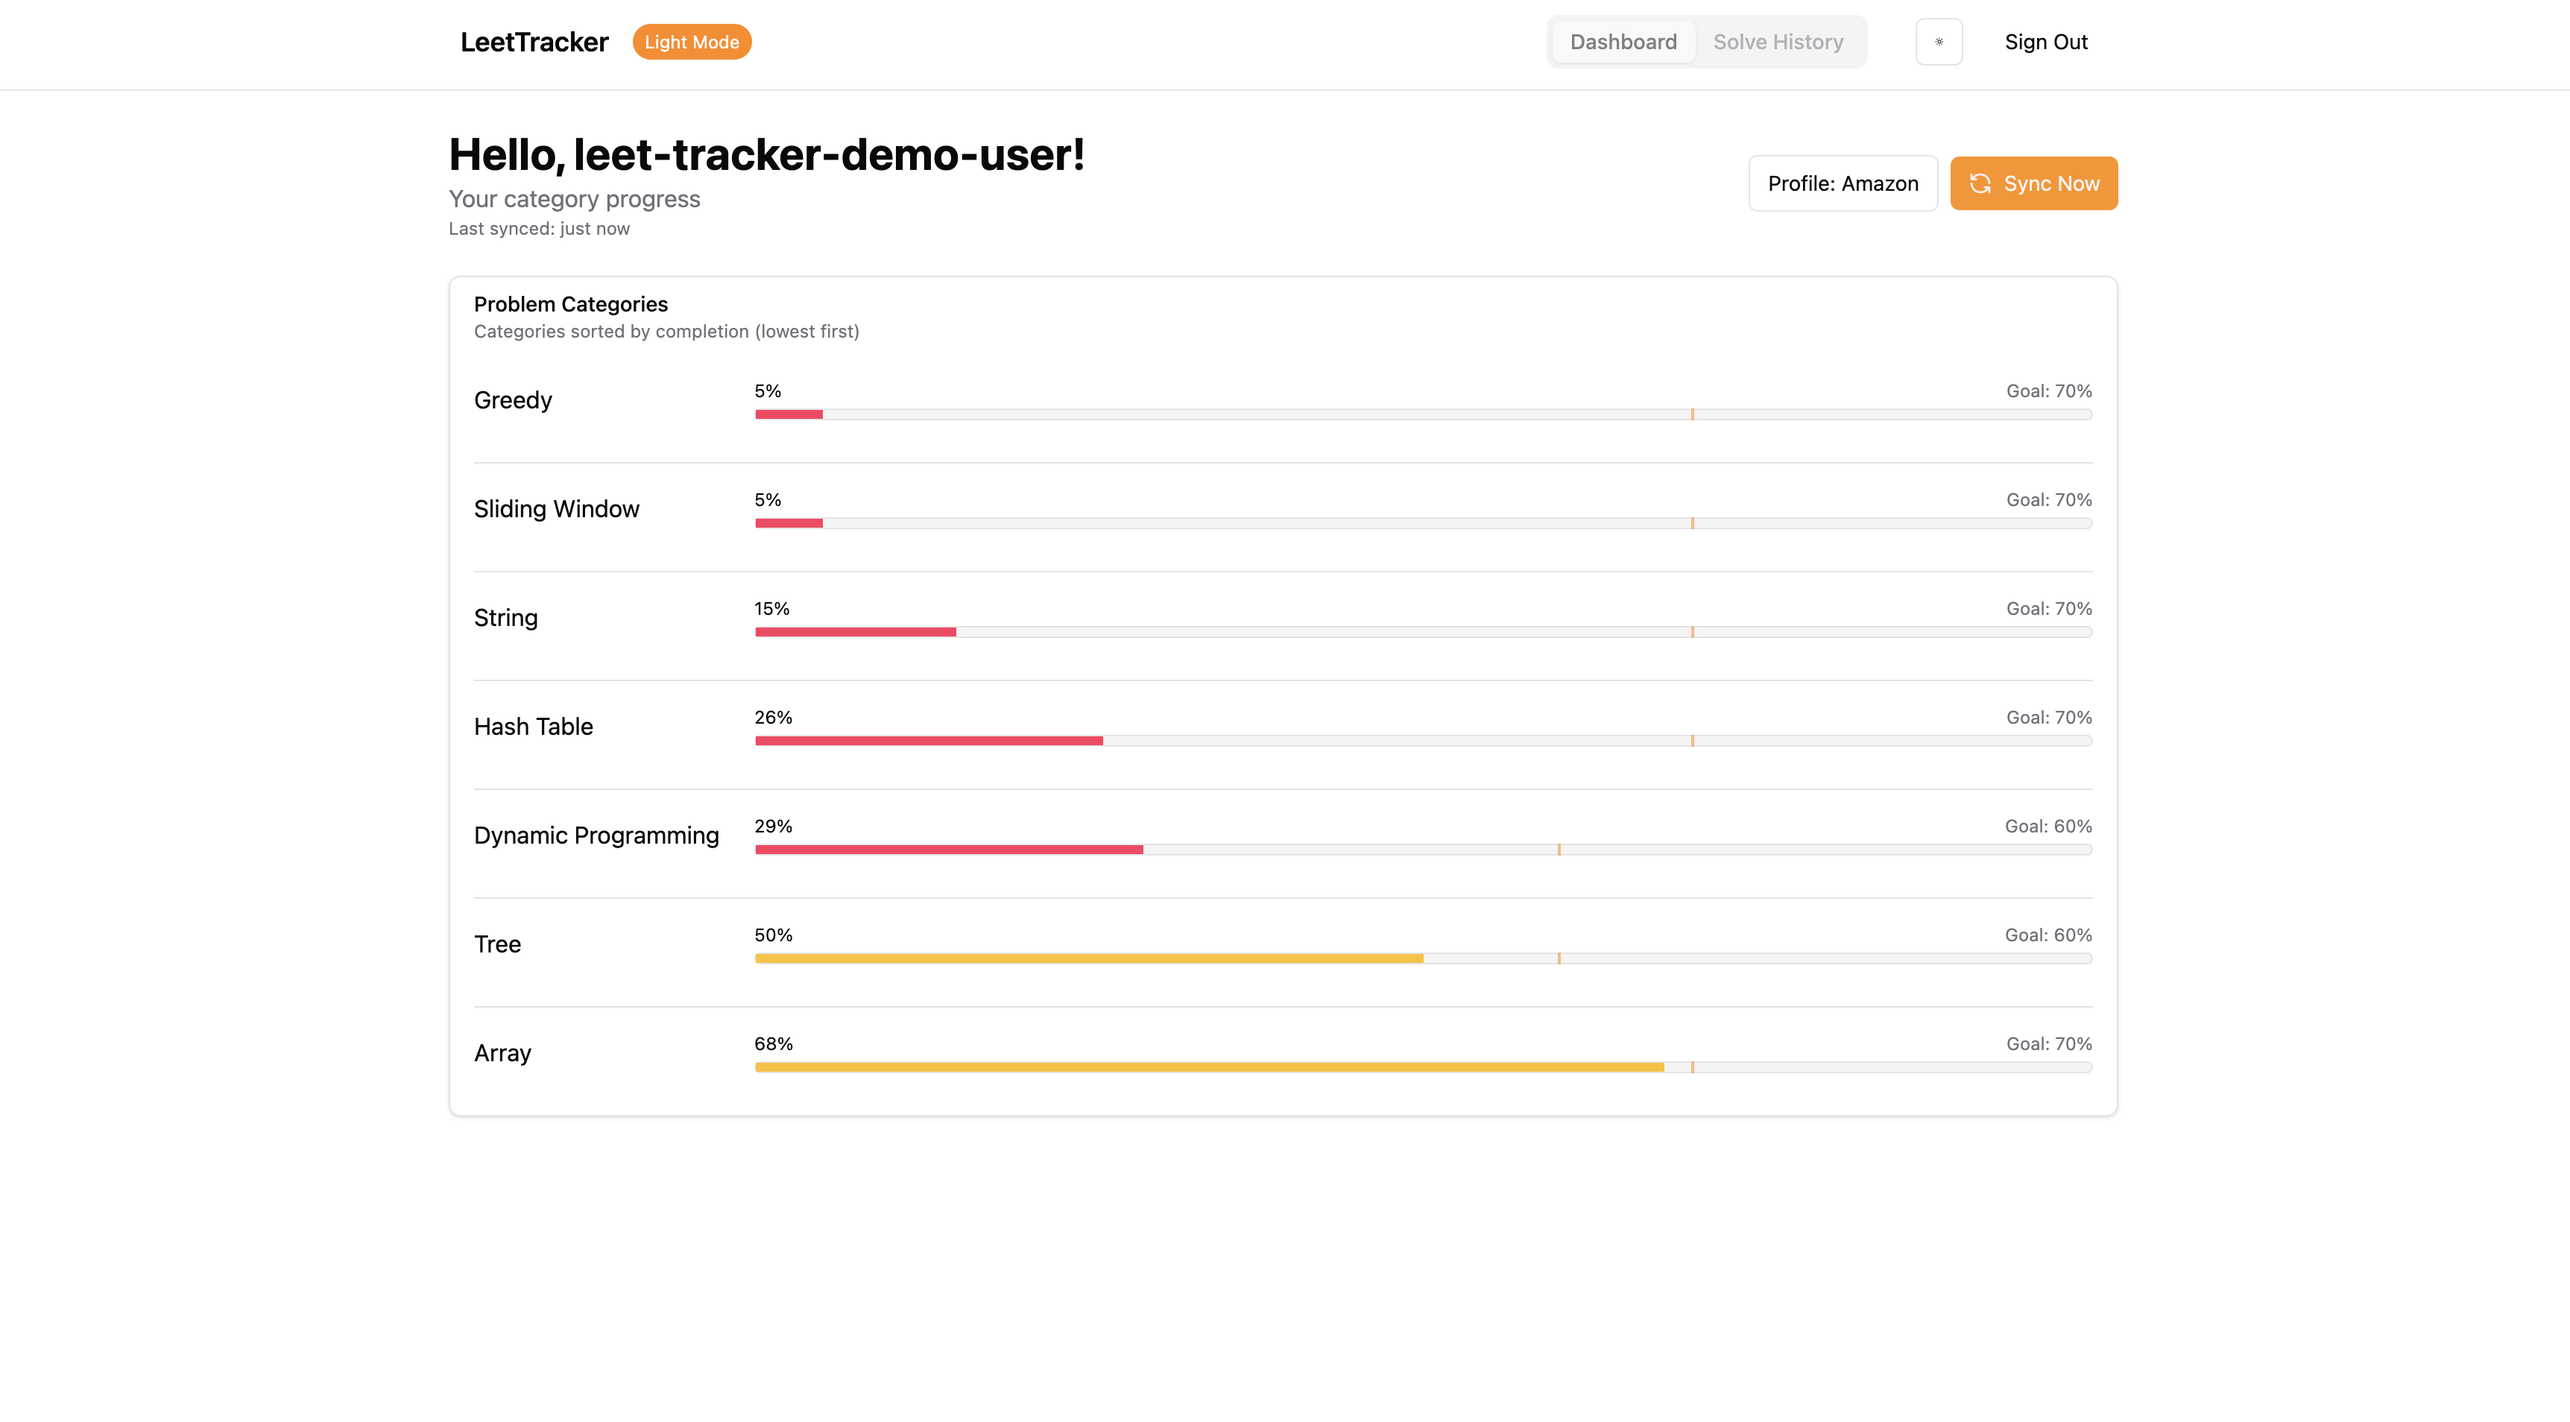
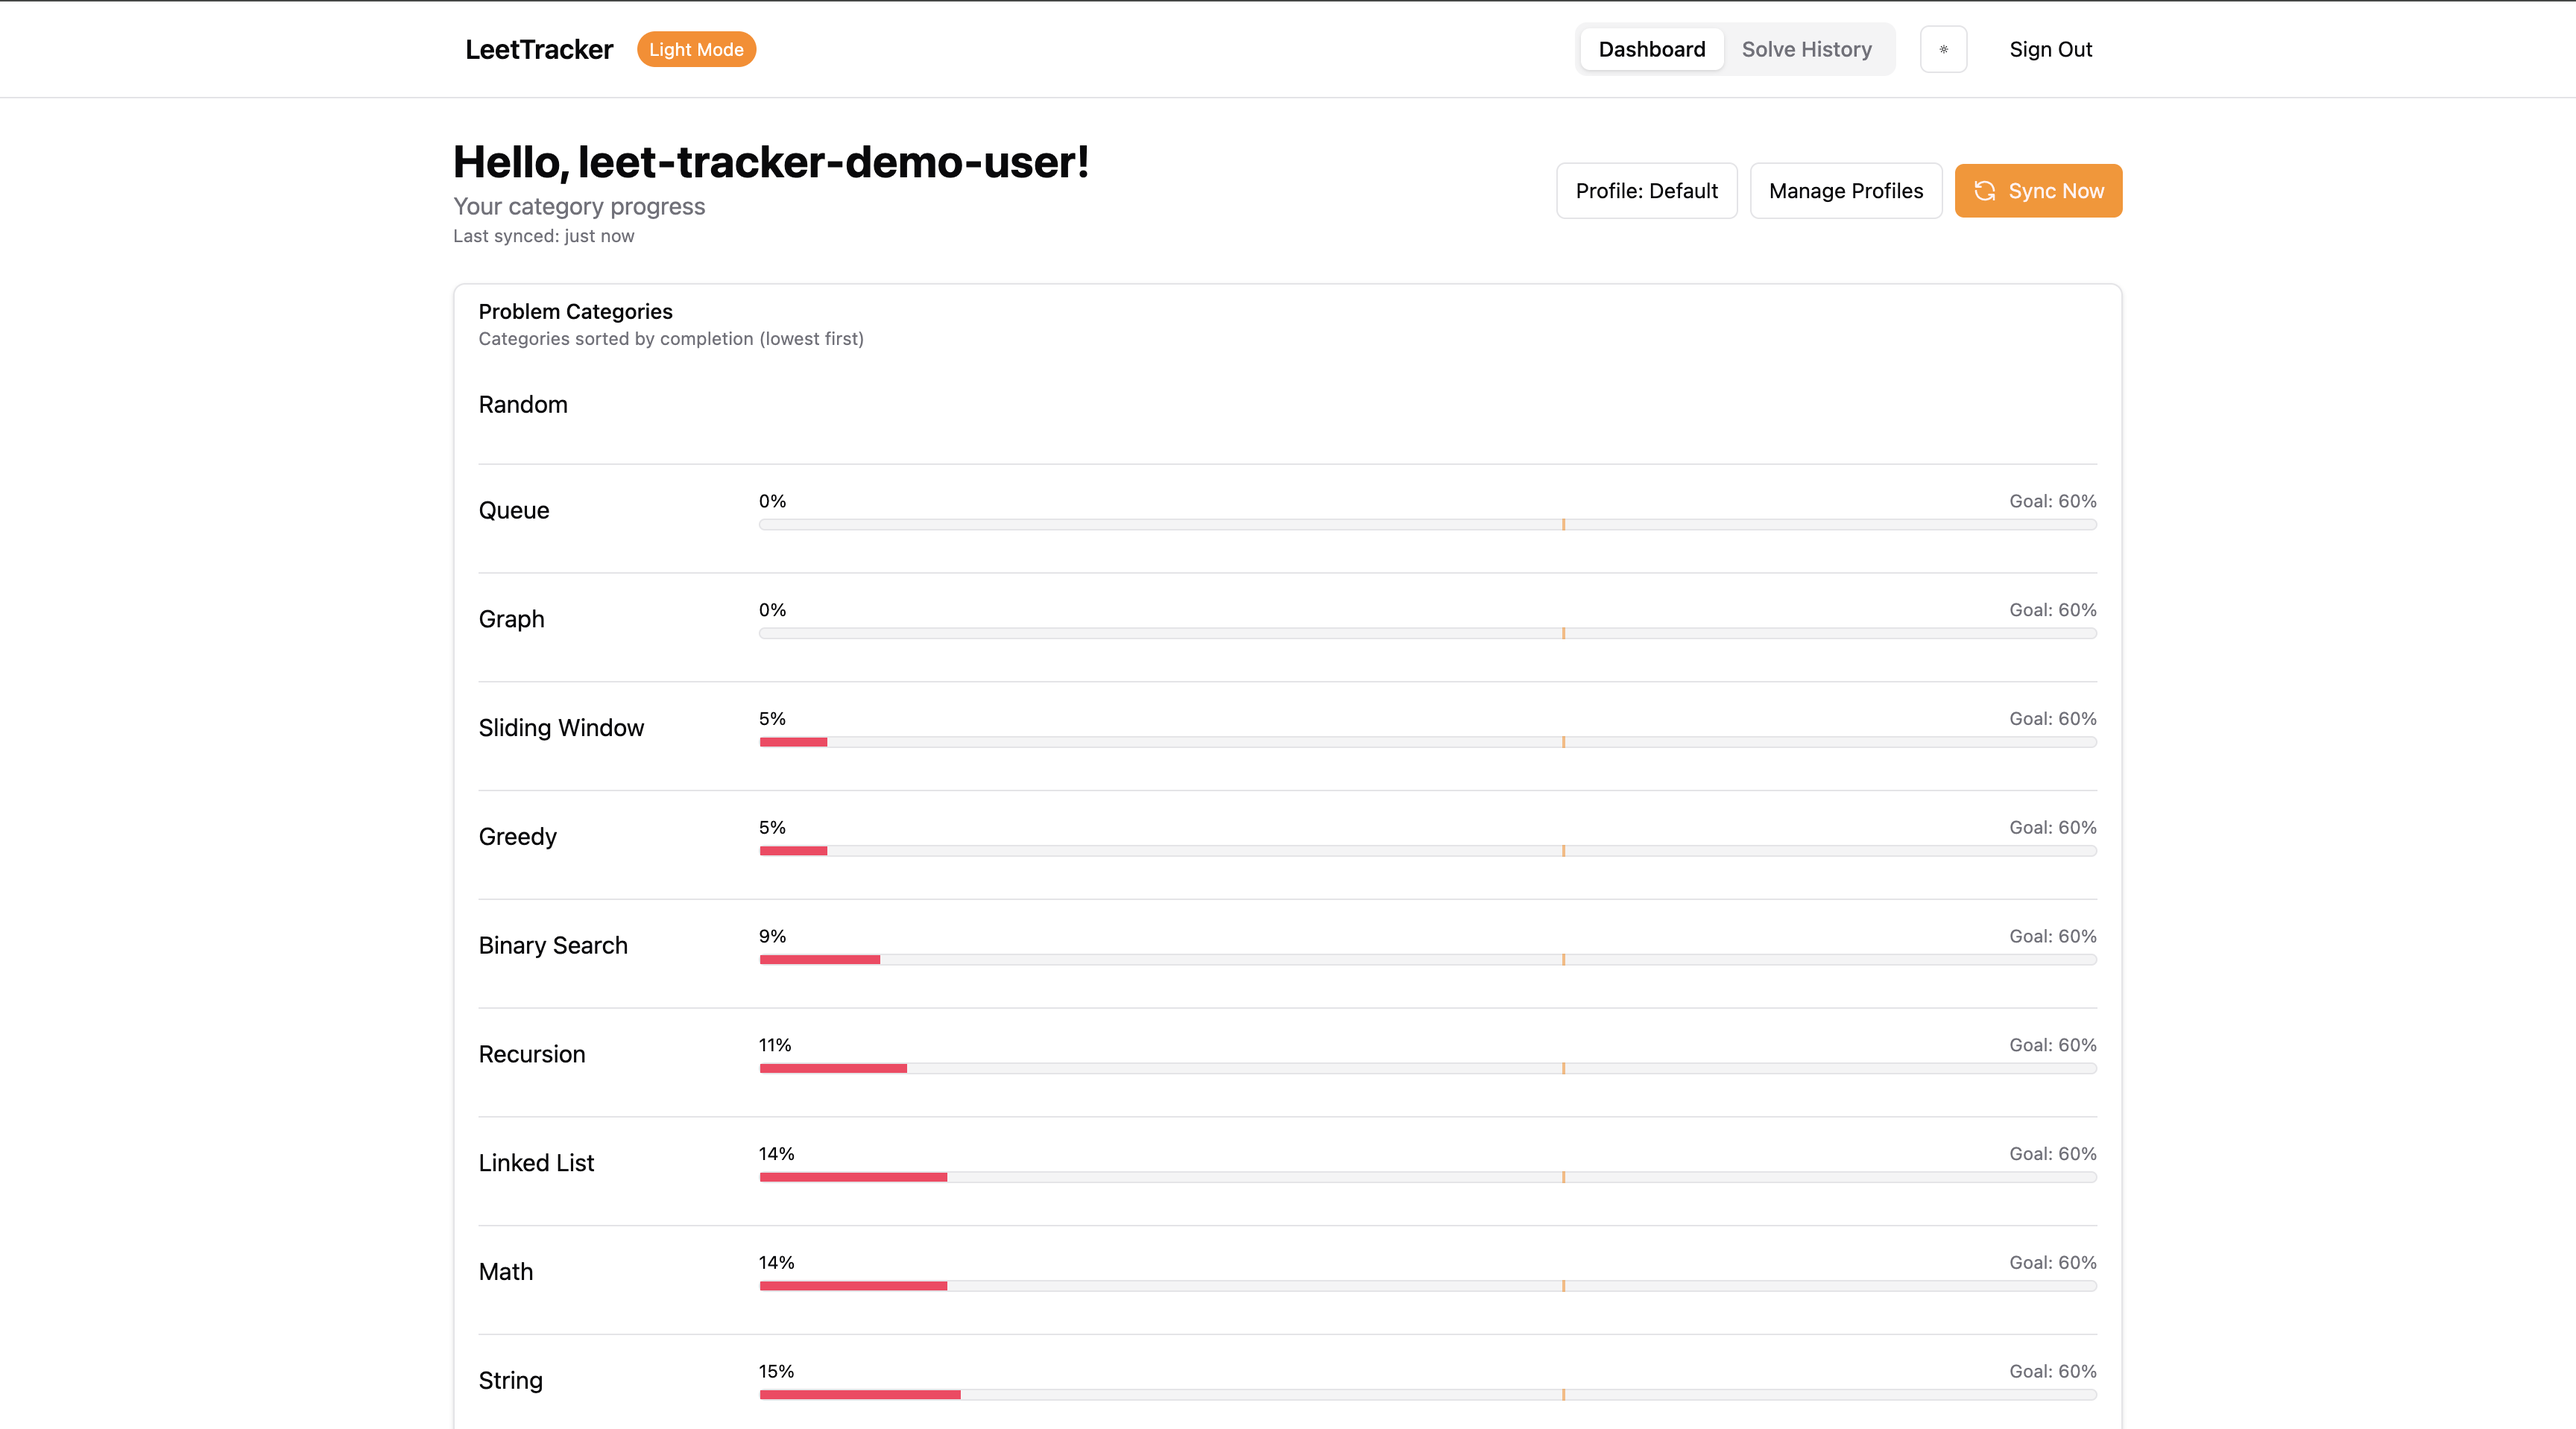
f update readme and screenshots.

diff --git a/README.md b/README.md
@@ -19,6 +19,8 @@ LeetCode and other platforms are great for improving algorithm skills and learni
 - 🔁 **Re-attempt logic** with diminishing returns
 - 🔐 **Fully local-first** (data stored in IndexedDB)
 - 🌙 **Dark mode** supported
+- 🗂 **Solve History & Detail view** with code, notes, hints, solve time, & timestamps
+- 🤖 **One-click AI feedback**: copy a ChatGPT prompt, paste XML back, auto-parses & stores solve feedback
 
 ## Live App
 
@@ -39,6 +41,19 @@ Once installed, the extension runs in the background while you're signed in to L
 - ✅ **Problems:** Pulled from a daily-updated S3 file with likes/dislikes, tags, and popularity
 - ✅ **Solves:** Pulled from `alfa-leetcode-api` (most recent 20 solves) + Full history can optionally be pulled via the companion Chrome extension
 - ✅ **Local Storage:** IndexedDB for user progress, settings, and sync timestamps
+- ✅ **AI Feedback:** XML pasted from ChatGPT is parsed & stored alongside each solve
+
+## Solve History & AI Feedback
+
+Every submission appears in **Solve History** with rich details:
+
+| Capability               | What it means                                                                                                                               |
+| ------------------------ | ------------------------------------------------------------------------------------------------------------------------------------------- |
+| **Code viewer / editor** | Expand or edit your submission inline.                                                                                                      |
+| **Solve metadata**       | Store time-to-solve, hints used, personal notes. These are automatically captured and stored if the extension is installed.                 |
+| **AI Feedback workflow** | 1. _Copy Prompt_ → paste into ChatGPT<br>2. Copy the XML it returns<br>3. _Import Feedback_ to auto-fill performance & code-quality scores. |
+
+The feedback is validated client-side (range-checking 0-5 / 0-100) and immediately affects your category scores.
 
 ### Scoring Algorithm
 
@@ -86,9 +101,10 @@ npm run dev
 ## Future Plans
 
 - ✅ ~~Chrome extension now supports full solve history syncing~~
-- Visual timeline of solves across categories and problem tags
+- ✅ ~~Visual timeline of solves across categories and problem tags~~
 - Support for **exporting** solve history data (JSON format)
 - Support for **importing** past solve history manually (upload-based or paste-in)
+- General pattern feedback from multiple solves (e.g. "You tend to struggle with DP problems because of X" from GPT)
 
 ## Acknowledgments
 
@@ -102,7 +118,15 @@ Overview:
 
 Recommendations:
 
-![Dashboard](./public/screenshots/refresh.png)
+![Dashboard](./public/screenshots/recommendation.png)
+
+Solve History:
+
+![Dashboard](./public/screenshots/solve_screen.png)
+
+Feedback:
+
+![Dashboard](./public/screenshots/feedback.png)
 
 ## Contact Me
 
